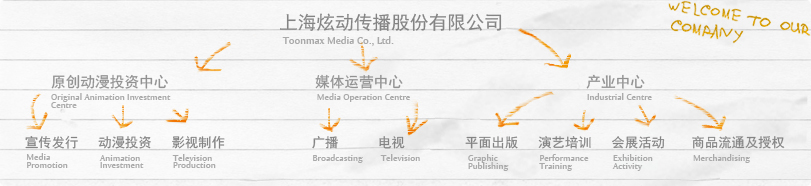
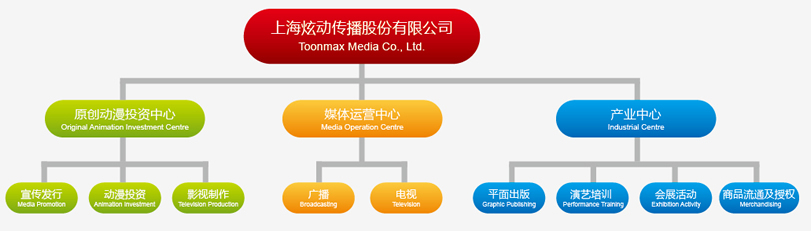
update orgchart to png and fix png

diff --git a/public/javascripts/jquery.pngFix.js b/public/javascripts/jquery.pngFix.js
@@ -1,0 +1,113 @@
+/**
+ * --------------------------------------------------------------------
+ * jQuery-Plugin "pngFix"
+ * Version: 1.2, 09.03.2009
+ * by Andreas Eberhard, andreas.eberhard@gmail.com
+ *                      http://jquery.andreaseberhard.de/
+ *
+ * Copyright (c) 2007 Andreas Eberhard
+ * Licensed under GPL (http://www.opensource.org/licenses/gpl-license.php)
+ *
+ * Changelog:
+ *    09.03.2009 Version 1.2
+ *    - Update for jQuery 1.3.x, removed @ from selectors
+ *    11.09.2007 Version 1.1
+ *    - removed noConflict
+ *    - added png-support for input type=image
+ *    - 01.08.2007 CSS background-image support extension added by Scott Jehl, scott@filamentgroup.com, http://www.filamentgroup.com
+ *    31.05.2007 initial Version 1.0
+ * --------------------------------------------------------------------
+ * @example $(function(){$(document).pngFix();});
+ * @desc Fixes all PNG's in the document on document.ready
+ *
+ * jQuery(function(){jQuery(document).pngFix();});
+ * @desc Fixes all PNG's in the document on document.ready when using noConflict
+ *
+ * @example $(function(){$('div.examples').pngFix();});
+ * @desc Fixes all PNG's within div with class examples
+ *
+ * @example $(function(){$('div.examples').pngFix( { blankgif:'ext.gif' } );});
+ * @desc Fixes all PNG's within div with class examples, provides blank gif for input with png
+ * --------------------------------------------------------------------
+ */
+
+(function($) {
+
+jQuery.fn.pngFix = function(settings) {
+
+	// Settings
+	settings = jQuery.extend({
+		blankgif: '../images/blank.gif'
+	}, settings);
+
+	var ie55 = (navigator.appName == "Microsoft Internet Explorer" && parseInt(navigator.appVersion) == 4 && navigator.appVersion.indexOf("MSIE 5.5") != -1);
+	var ie6 = (navigator.appName == "Microsoft Internet Explorer" && parseInt(navigator.appVersion) == 4 && navigator.appVersion.indexOf("MSIE 6.0") != -1);
+
+	if (jQuery.browser.msie && (ie55 || ie6)) {
+
+		//fix images with png-source
+		jQuery(this).find("img[src$=.png]").each(function() {
+
+			jQuery(this).attr('width',jQuery(this).width());
+			jQuery(this).attr('height',jQuery(this).height());
+
+			var prevStyle = '';
+			var strNewHTML = '';
+			var imgId = (jQuery(this).attr('id')) ? 'id="' + jQuery(this).attr('id') + '" ' : '';
+			var imgClass = (jQuery(this).attr('class')) ? 'class="' + jQuery(this).attr('class') + '" ' : '';
+			var imgTitle = (jQuery(this).attr('title')) ? 'title="' + jQuery(this).attr('title') + '" ' : '';
+			var imgAlt = (jQuery(this).attr('alt')) ? 'alt="' + jQuery(this).attr('alt') + '" ' : '';
+			var imgAlign = (jQuery(this).attr('align')) ? 'float:' + jQuery(this).attr('align') + ';' : '';
+			var imgHand = (jQuery(this).parent().attr('href')) ? 'cursor:hand;' : '';
+			if (this.style.border) {
+				prevStyle += 'border:'+this.style.border+';';
+				this.style.border = '';
+			}
+			if (this.style.padding) {
+				prevStyle += 'padding:'+this.style.padding+';';
+				this.style.padding = '';
+			}
+			if (this.style.margin) {
+				prevStyle += 'margin:'+this.style.margin+';';
+				this.style.margin = '';
+			}
+			var imgStyle = (this.style.cssText);
+
+			strNewHTML += '<span '+imgId+imgClass+imgTitle+imgAlt;
+			strNewHTML += 'style="position:relative;white-space:pre-line;display:inline-block;background:transparent;'+imgAlign+imgHand;
+			strNewHTML += 'width:' + jQuery(this).width() + 'px;' + 'height:' + jQuery(this).height() + 'px;';
+			strNewHTML += 'filter:progid:DXImageTransform.Microsoft.AlphaImageLoader' + '(src=\'' + jQuery(this).attr('src') + '\', sizingMethod=\'scale\');';
+			strNewHTML += imgStyle+'"></span>';
+			if (prevStyle != ''){
+				strNewHTML = '<span style="position:relative;display:inline-block;'+prevStyle+imgHand+'width:' + jQuery(this).width() + 'px;' + 'height:' + jQuery(this).height() + 'px;'+'">' + strNewHTML + '</span>';
+			}
+
+			jQuery(this).hide();
+			jQuery(this).after(strNewHTML);
+
+		});
+
+		// fix css background pngs
+		jQuery(this).find("*").each(function(){
+			var bgIMG = jQuery(this).css('background-image');
+			if(bgIMG.indexOf(".png")!=-1){
+				var iebg = bgIMG.split('url("')[1].split('")')[0];
+				jQuery(this).css('background-image', 'none');
+				jQuery(this).get(0).runtimeStyle.filter = "progid:DXImageTransform.Microsoft.AlphaImageLoader(src='" + iebg + "',sizingMethod='scale')";
+			}
+		});
+		
+		//fix input with png-source
+		jQuery(this).find("input[src$=.png]").each(function() {
+			var bgIMG = jQuery(this).attr('src');
+			jQuery(this).get(0).runtimeStyle.filter = 'progid:DXImageTransform.Microsoft.AlphaImageLoader' + '(src=\'' + bgIMG + '\', sizingMethod=\'scale\');';
+   		jQuery(this).attr('src', settings.blankgif)
+		});
+	
+	}
+	
+	return jQuery;
+
+};
+
+})(jQuery);

diff --git a/public/intro.html b/public/intro.html
@@ -5,6 +5,7 @@
 <title>炫动传播 toonmaxmedia</title>
 <link href="stylesheets/toonmaxmedia.css" rel="stylesheet" type="text/css" />
 <script type="text/javascript" src="javascripts/jquery-1.2.1.js"></script>
+<script type="text/javascript" src="javascripts/jquery.pngFix.js"></script>
 <script type="text/javascript">
       $(function(){
         $('li:has(ul)')
@@ -36,6 +37,8 @@
 			var label = $(this).html();
 			$(this).parent().append('<span class="navSpan">'+label+'</span>');$(this).parent().find('a').remove();
 		});
+		
+		$(document).pngFix();
       });
     </script>
 </head>
@@ -65,7 +68,7 @@
   <p>拥有“原创动漫投资中心”、“媒体运营中心”和“产业中心”三大业务板块。</p>
   </span>
   <div class="blank6"></div>
-  <span class="hui">公司架构图(参考)</span> <span><img src="images/toonmaxmedia3.jpg" /></span>
+  <span class="hui">公司架构图(参考)</span> <span><img src="images/toonmaxmedia3.png" /></span>
   <div class="blank6"></div>
   <ul style="padding-left:18px; ">
     <li style="margin-bottom:12px;" class="hui02" > 原创动漫投资中心：原创影视动画投资、制作、发行
